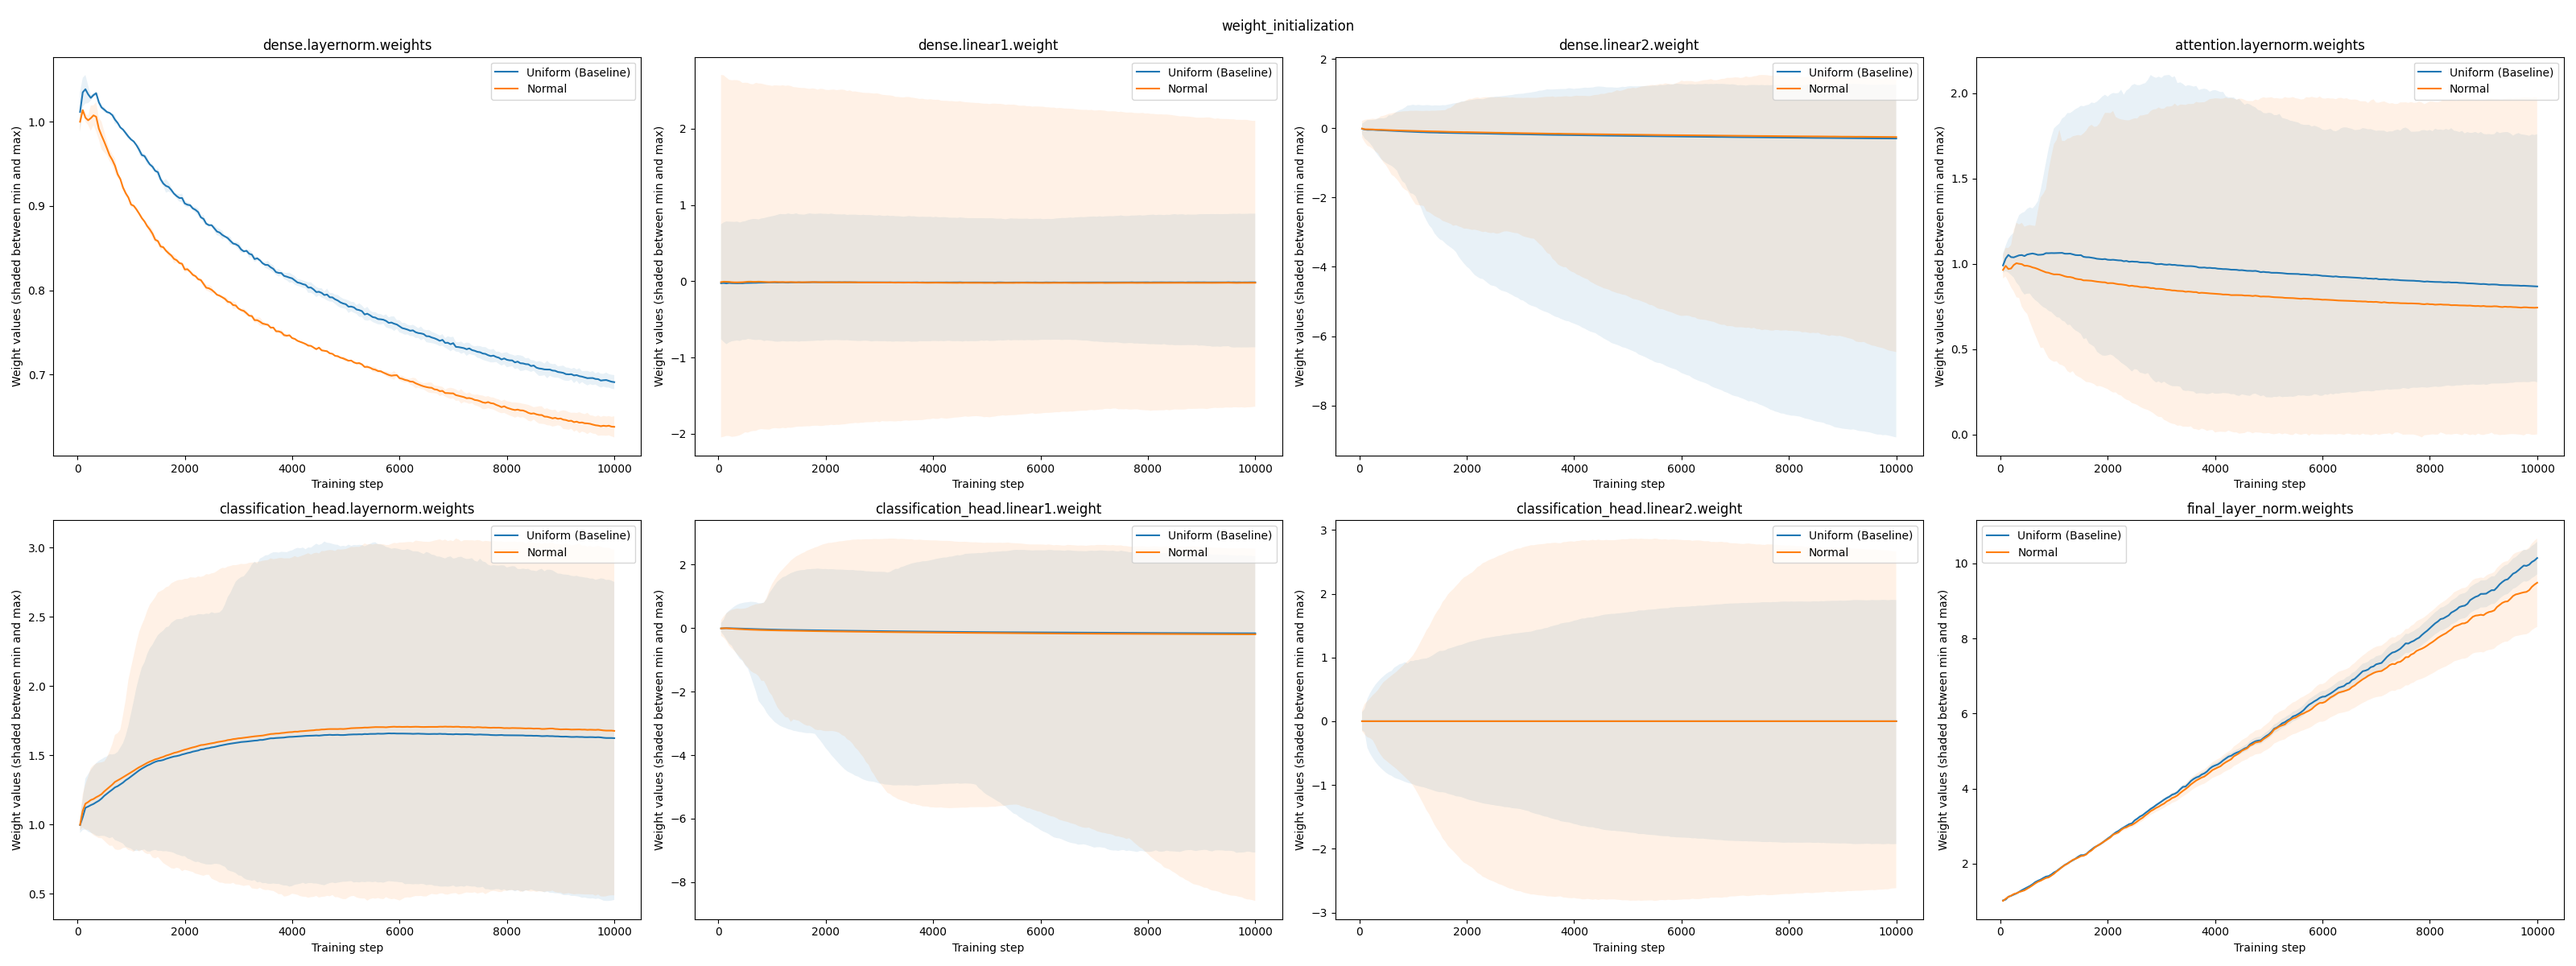
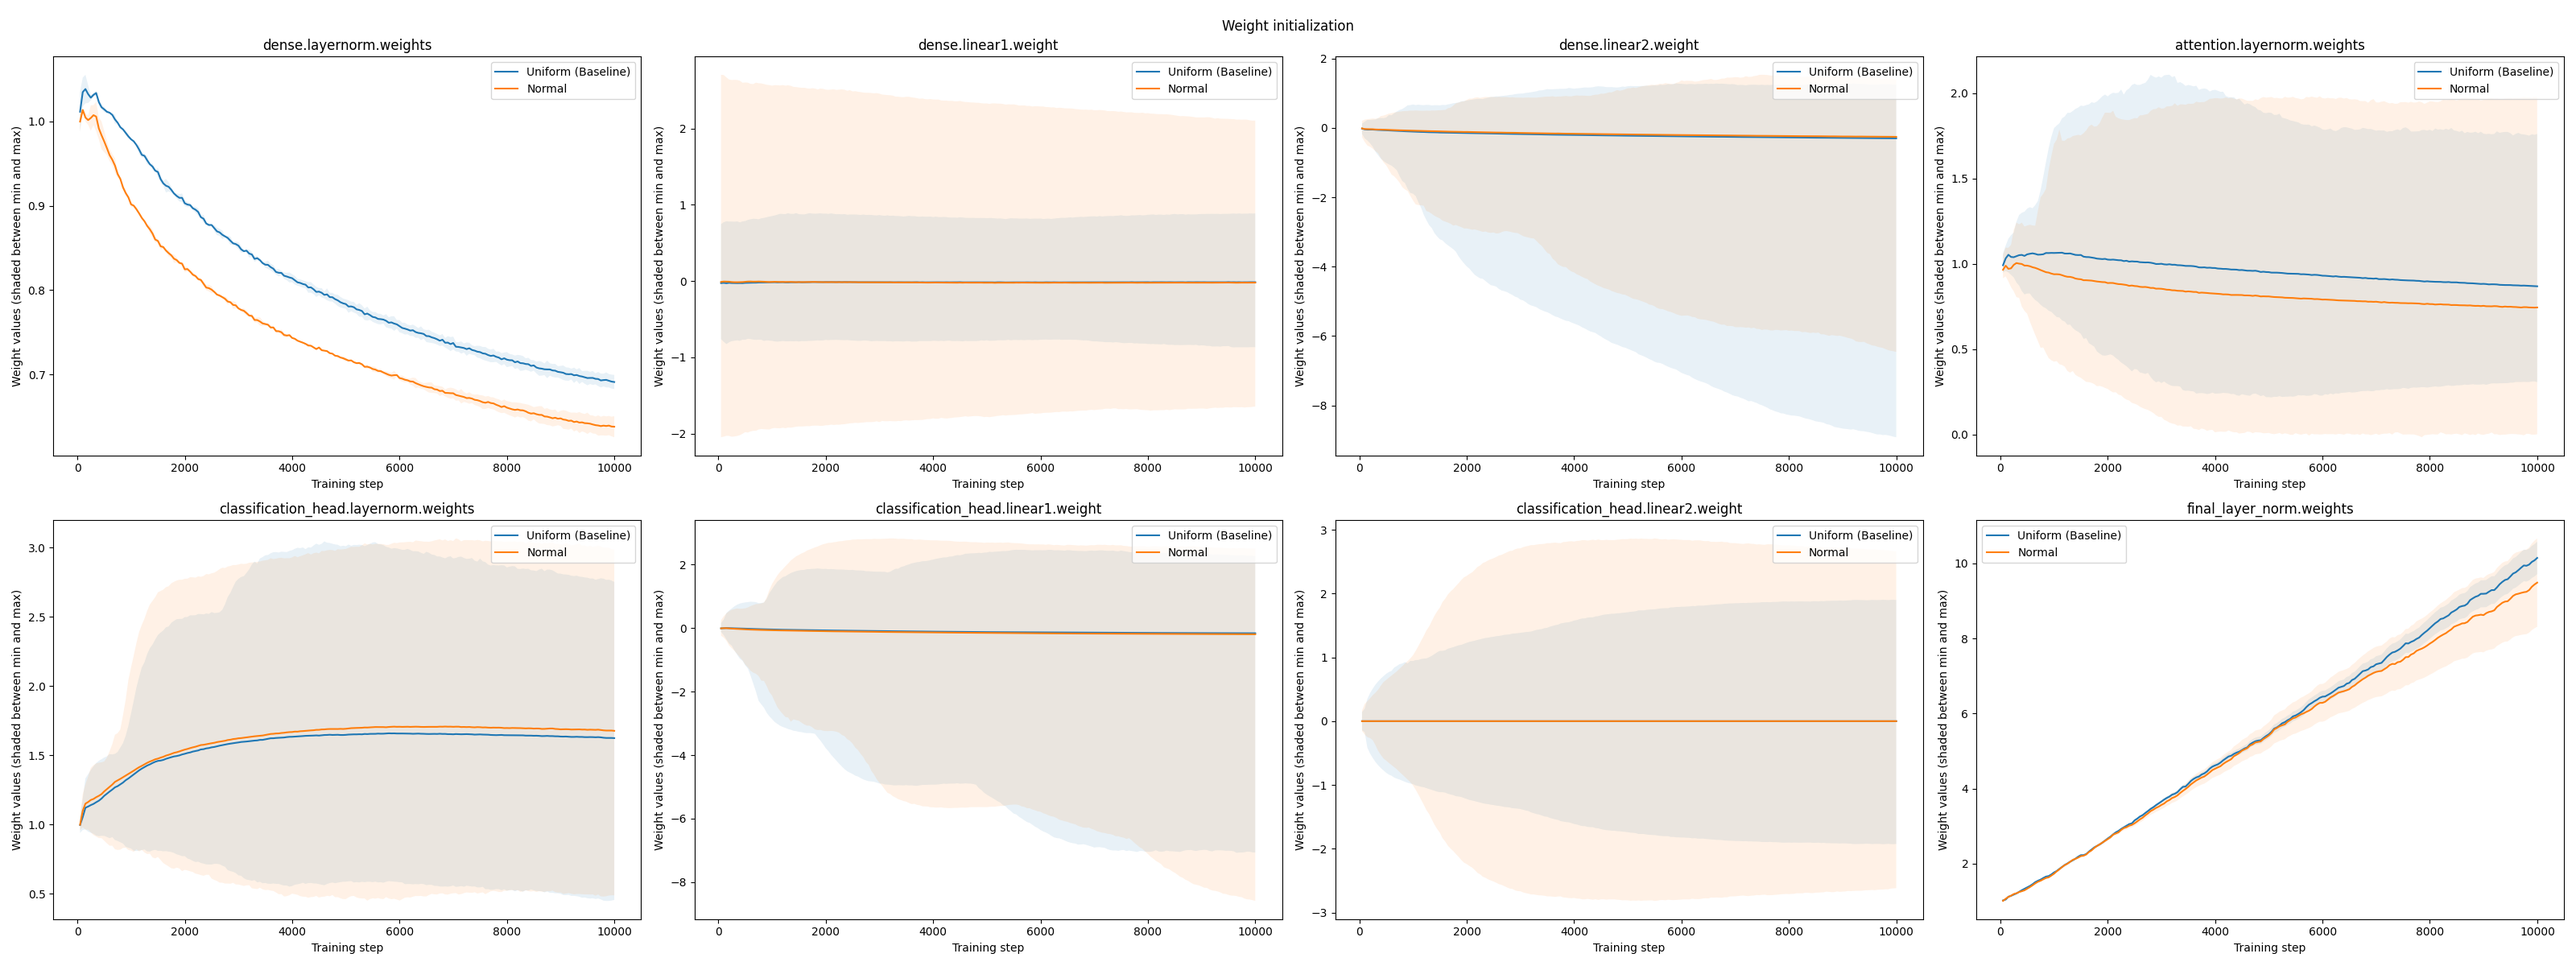
fixing vis title

diff --git a/scripts/vis_final.py b/scripts/vis_final.py
@@ -140,7 +140,7 @@ def nonlinearities():
 
 
 def weight_initialization():
-    fig_name = "weight_initialization"
+    fig_name = "Weight initialization"
     configs = {
         "Uniform (Baseline)": "FinalModelExperiment",
         "Normal": "WeightInitializationExperiment",
